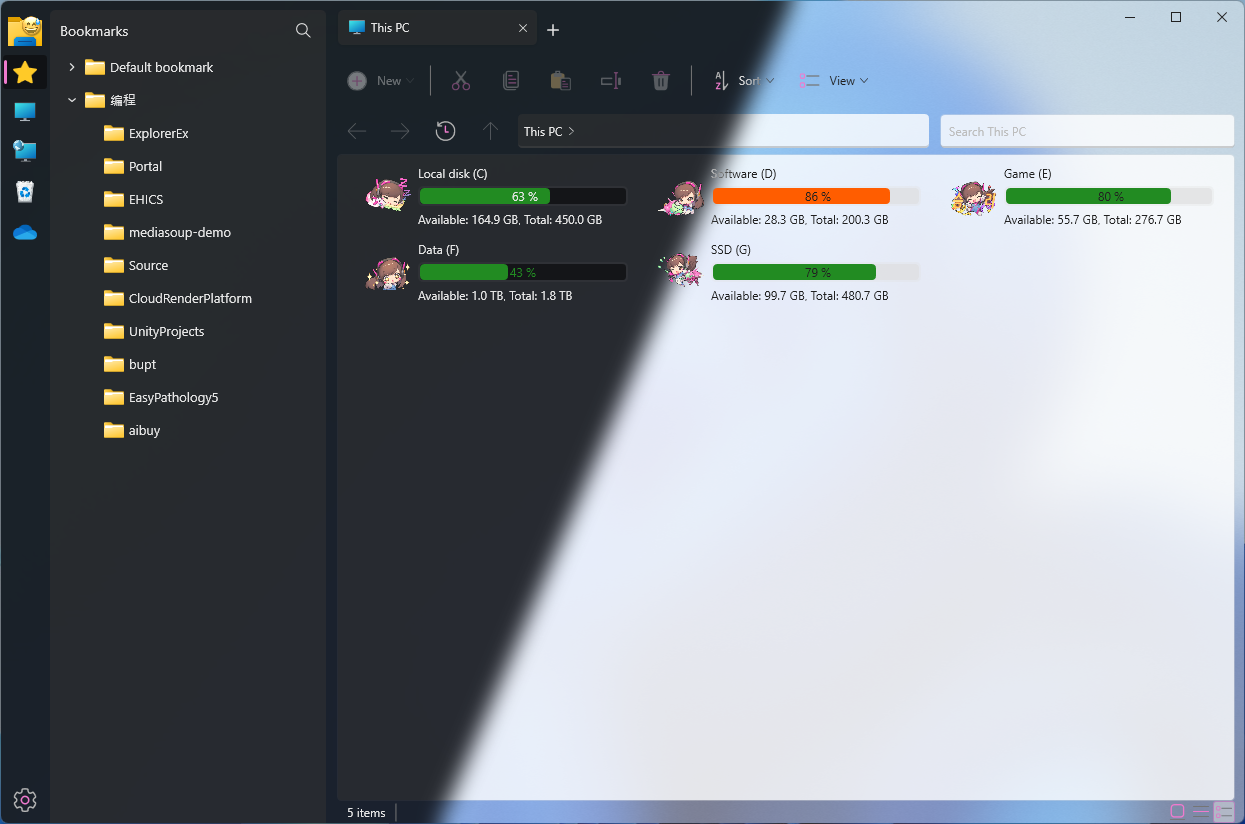
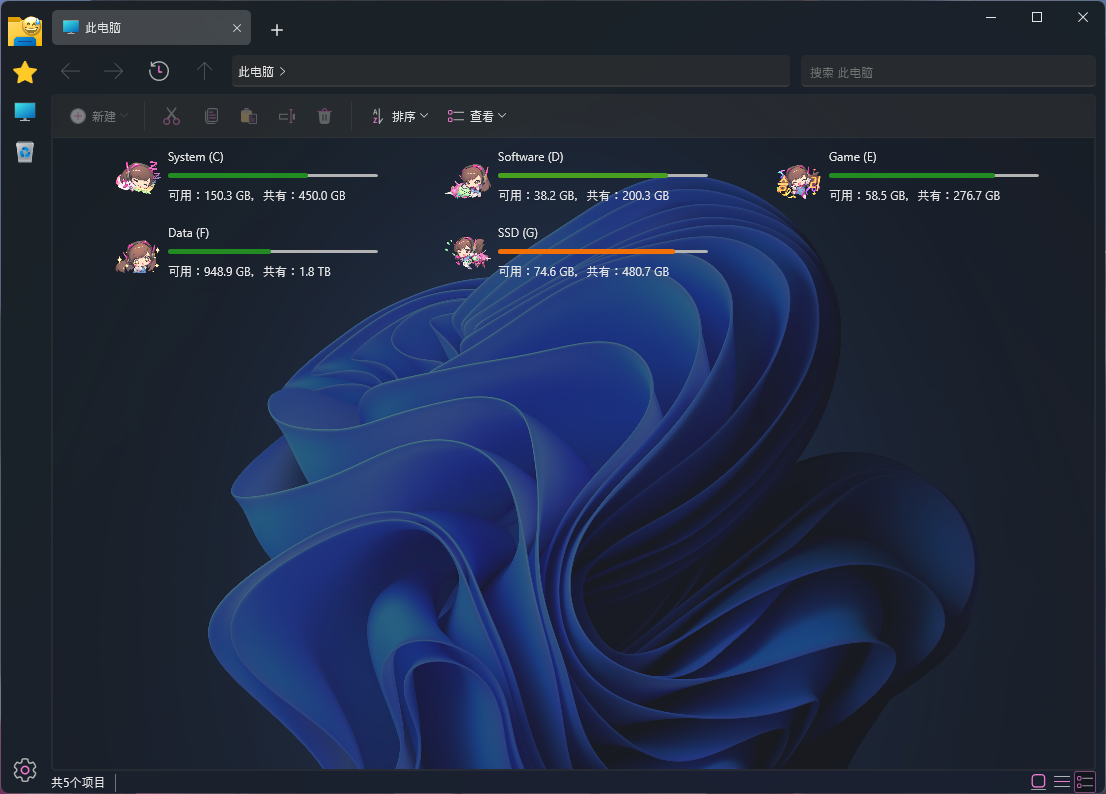
修复设置背景图解析bug；更新预览图

diff --git a/ExplorerEx/View/MainWindow.xaml.cs b/ExplorerEx/View/MainWindow.xaml.cs
@@ -817,9 +817,14 @@ public sealed partial class MainWindow {
 		}
 	}
 
+	/// <summary>
+	/// 是否打开了任何对话框？或者正在添加书签？
+	/// </summary>
+	private bool IsAnyDialogShown => RootPanel.Children.Count > 2 || IsAddToBookmarkShow;
+
 	protected override void OnKeyDown(KeyEventArgs e) {
 		var handled = true;
-		if (RootPanel.Children.Count == 2) {  // 没有打开任何对话框
+		if (!IsAnyDialogShown) {
 			var mouseOverTab = FileTabControl.MouseOverTabControl?.SelectedTab;
 			if (mouseOverTab != null) {
 				if ((Keyboard.Modifiers & ModifierKeys.Control) == ModifierKeys.Control) {
@@ -889,8 +894,7 @@ public sealed partial class MainWindow {
 	}
 
 	protected override void OnPreviewTextInput(TextCompositionEventArgs e) {
-		if ((RootPanel.Children.Count == 2 || !IsAddToBookmarkShow) &&
-			!string.IsNullOrWhiteSpace(e.Text) && e.OriginalSource is not TextBox and not AddressBar) {  // 没有打开任何对话框
+		if (!IsAnyDialogShown && !string.IsNullOrWhiteSpace(e.Text) && e.OriginalSource is not TextBox and not AddressBar) {
 			var mouseOverTabControl = FileTabControl.MouseOverTabControl;
 			if (mouseOverTabControl != null) {
 				var fileListView = mouseOverTabControl.SelectedTab.FileListView;

diff --git a/ExplorerEx/Settings.cs b/ExplorerEx/Settings.cs
@@ -289,8 +289,9 @@ internal sealed class Settings : INotifyPropertyChanged {
 
 	public double BackgroundImageOpacity => this[CommonSettings.BackgroundImageOpacity].GetDouble();
 
-	private void BackgroundImage_OnChanged(object? o) {
-		if (o is string path && File.Exists(path)) {
+	private void BackgroundImage_OnChanged(SettingsItem si) {
+		var path = si.GetString().Trim(' ').Trim('"').Trim(' ');
+		if (File.Exists(path)) {
 			try {
 				BackgroundImage = new BitmapImage(new Uri(path));
 			} catch {
@@ -426,7 +427,7 @@ internal sealed class Settings : INotifyPropertyChanged {
 		settings[CommonSettings.WindowBackdrop].Changed += _ => ThemeChanged?.Invoke();
 
 		settings[CommonSettings.BackgroundImage].Changed += BackgroundImage_OnChanged;
-		BackgroundImage_OnChanged(settings[CommonSettings.BackgroundImage].Value);
+		BackgroundImage_OnChanged(settings[CommonSettings.BackgroundImage]);
 
 		settings[CommonSettings.BackgroundImageOpacity].Changed += _ => OnPropertyChanged(nameof(BackgroundImageOpacity));
 		settings[CommonSettings.ColorMode].Changed += _ => ThemeChanged?.Invoke();  // 更改颜色
